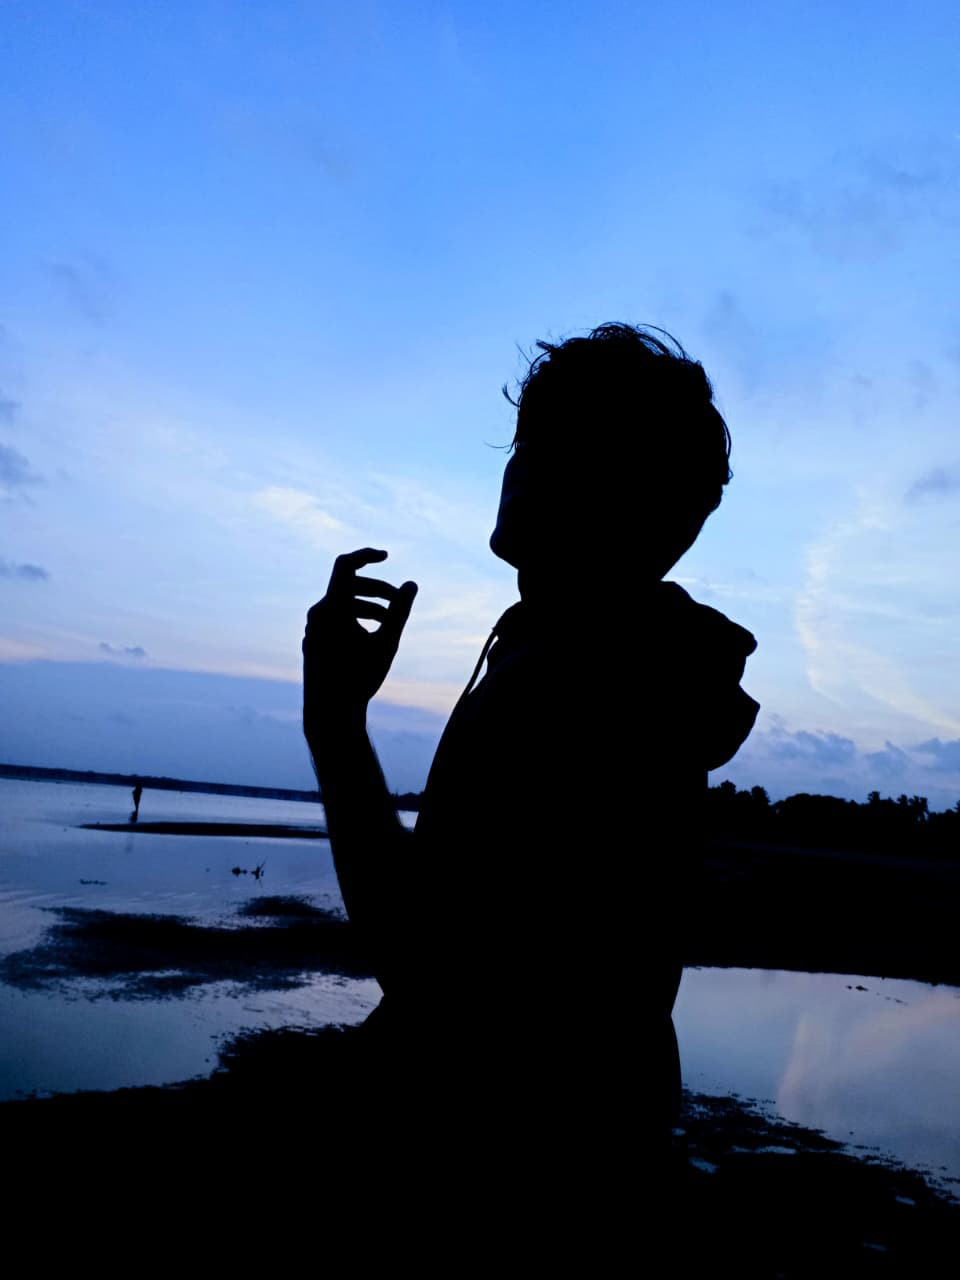
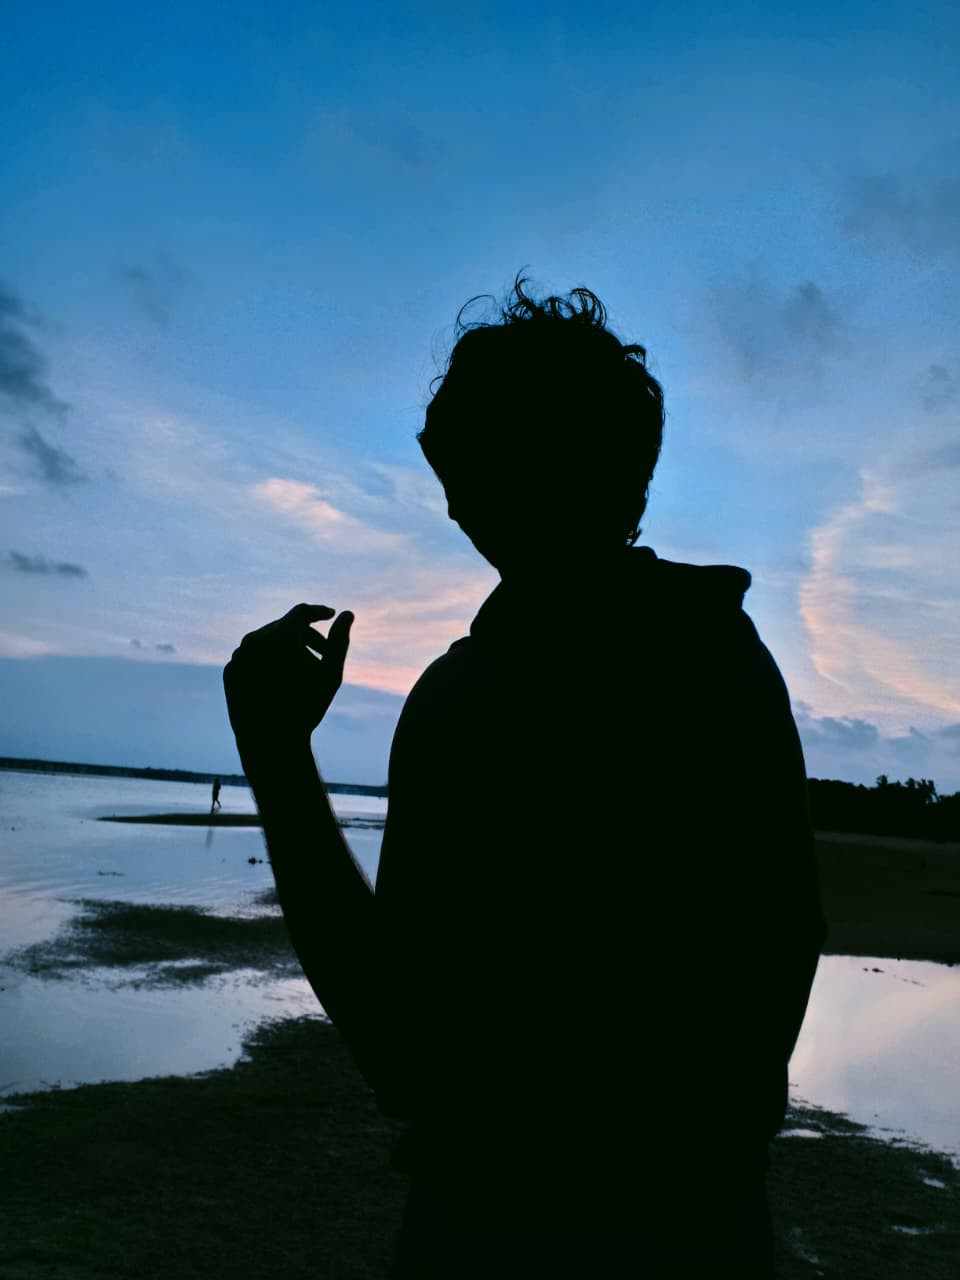
feat : new home and open source backgrounds

diff --git a/styles.css b/styles.css
@@ -128,14 +128,14 @@ body {
 
 body.home-bg {
   --page-bg-image: url("assets/images/page-home-bg-wide.jpg");
-  --page-bg-position: center;
+  --page-bg-position: center 20%;
   background-image: none;
 }
 
 @media (orientation: portrait) {
   body.home-bg {
     --page-bg-image: url("assets/images/page-home-bg-tall.jpg");
-    --page-bg-position: center;
+    --page-bg-position: 60% center;
   }
 }
 
